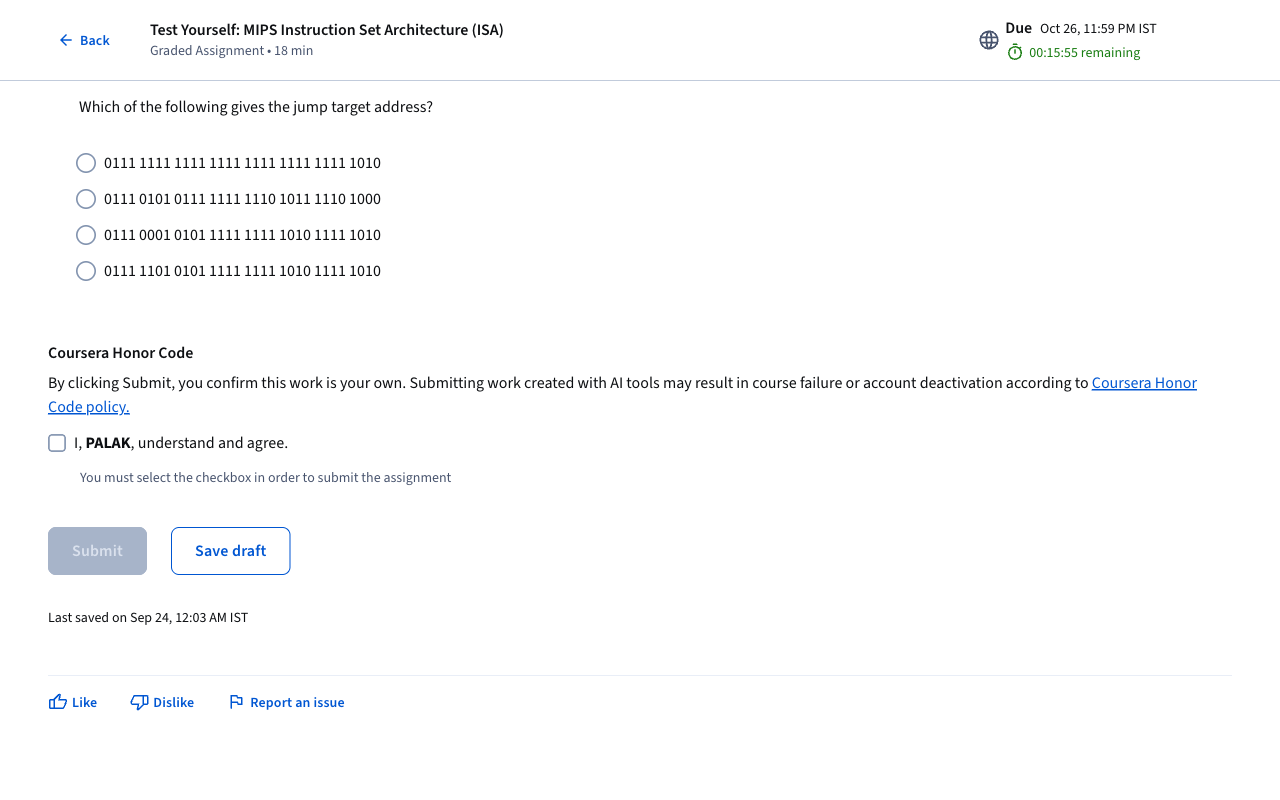
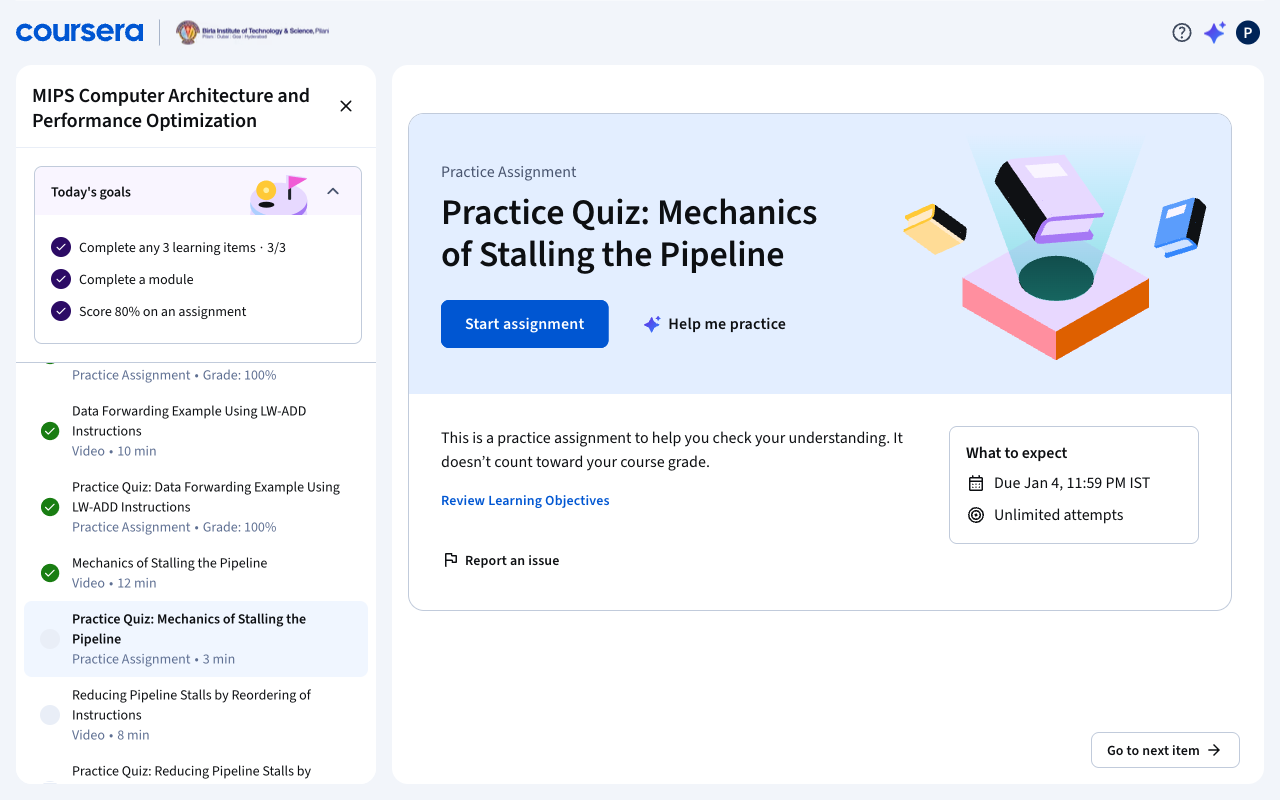
refactor: replace peer assignment submission and upload logic with automatic skipping

diff --git a/tests/test_peer.py b/tests/test_peer.py
@@ -1,52 +1,50 @@
 """Unit tests for peer-graded assignment automation."""
 
-from pathlib import Path
 from unittest.mock import MagicMock, patch
 
 from coursera_automation.config import Settings
 from coursera_automation.items.dispatcher import dispatch_item
 from coursera_automation.items.peer.coordinator import handle_peer
-from coursera_automation.items.peer.upload import upload_peer_file
 
 
-def test_upload_peer_file() -> None:
-    """Verify upload_peer_file clicks add and sets file via file chooser."""
-    page = MagicMock()
-    fc = MagicMock()
-    page.expect_file_chooser.return_value.__enter__.return_value = MagicMock(value=fc)
-    upload_peer_file(page, Path("test.png"))
-    fc.set_files.assert_called_once()
-
-
-
-@patch("coursera_automation.items.peer.coordinator.poll_and_click_next")
-@patch("coursera_automation.items.peer.coordinator.upload_peer_file")
+@patch("coursera_automation.items.peer.coordinator.click_next_item")
 @patch("coursera_automation.items.peer.coordinator.dismiss_dialogs")
-def test_handle_peer_flow(mock_dis: MagicMock, mock_up: MagicMock, mock_poll: MagicMock) -> None:
-    """Verify handle_peer fills title, uploads, checks honor, and submits."""
+def test_handle_peer_skips_and_advances(mock_dis: MagicMock, mock_next: MagicMock) -> None:
+    """Verify handle_peer dismisses dialogs and advances via click_next_item."""
+    mock_next.return_value = True
     page, cfg = MagicMock(), Settings()
-    sub_btn = MagicMock(is_visible=MagicMock(return_value=True), is_enabled=MagicMock(return_value=True))
-    sub_btn.get_attribute.return_value = "false"
-    modal_btn = MagicMock(is_visible=MagicMock(return_value=True))
-    honor_btn = MagicMock(is_visible=MagicMock(return_value=True), is_checked=MagicMock(return_value=False))
-    page.locator.side_effect = lambda s: (
-        MagicMock(first=sub_btn) if "preview" in s else (
-            MagicMock(first=modal_btn) if "dialog-submit-button" in s else (
-                MagicMock(first=honor_btn) if "Honor Code" in s else MagicMock(first=MagicMock(is_visible=MagicMock(return_value=True)))
-            )
-        )
-    )
     handle_peer(page, cfg)
-    mock_up.assert_called_once()
-    sub_btn.click.assert_called_once()
-    modal_btn.click.assert_called_once()
-    mock_poll.assert_called_once_with(page, max_wait_sec=180)
+    mock_dis.assert_called_once_with(page)
+    mock_next.assert_called_once_with(page, cfg)
+
+
+@patch("coursera_automation.items.peer.coordinator.click_next_item")
+@patch("coursera_automation.items.peer.coordinator.dismiss_dialogs")
+def test_handle_peer_scrolls_fallback(mock_dis: MagicMock, mock_next: MagicMock) -> None:
+    """Verify handle_peer scrolls to bottom and retries when first click fails."""
+    mock_next.side_effect = [False, True]
+    page, cfg = MagicMock(), Settings()
+    handle_peer(page, cfg)
+    page.evaluate.assert_called_once_with("() => window.scrollTo(0, document.body.scrollHeight)")
+    assert mock_next.call_count == 2
 
 
 @patch("coursera_automation.items.dispatcher.dismiss_dialogs")
 @patch("coursera_automation.items.dispatcher.handle_peer")
-def test_dispatch_item_peer(mock_peer: MagicMock, mock_dis: MagicMock) -> None:
-    """Verify dispatch_item detects peer URL and delegates to handle_peer."""
+def test_dispatch_item_peer_by_url(mock_peer: MagicMock, mock_dis: MagicMock) -> None:
+    """Verify dispatch_item detects '/peer/' in URL and delegates to handle_peer."""
     page, cfg = MagicMock(url="https://coursera.org/learn/test/peer/123"), Settings()
     dispatch_item(page, cfg)
     mock_peer.assert_called_once_with(page, cfg)
+
+
+@patch("coursera_automation.items.dispatcher.handle_reading")
+@patch("coursera_automation.items.dispatcher.dismiss_dialogs")
+@patch("coursera_automation.items.dispatcher.handle_peer")
+def test_dispatch_item_ignores_peer_dom_without_url(
+    mock_peer: MagicMock, mock_dis: MagicMock, mock_read: MagicMock
+) -> None:
+    """Verify dispatch_item does not trigger handle_peer without '/peer/' in URL."""
+    page, cfg = MagicMock(url="https://coursera.org/learn/test/supplement/123"), Settings()
+    dispatch_item(page, cfg)
+    mock_peer.assert_not_called()

diff --git a/coursera_automation/items/peer/coordinator.py b/coursera_automation/items/peer/coordinator.py
@@ -1,58 +1,23 @@
-"""Peer-graded assignment orchestration: tab selection, title, upload, and submit."""
+"""Peer-graded assignment skipping and progression navigation."""
 
 import logging
-from pathlib import Path
 
 from playwright.sync_api import Page
 
 from coursera_automation.config import Settings
 from coursera_automation.items.navigation.dialogs import dismiss_dialogs
-from coursera_automation.items.peer.upload import upload_peer_file
-from coursera_automation.items.quiz.poll import poll_and_click_next
+from coursera_automation.items.navigation.navigator import click_next_item
 
 logger = logging.getLogger(__name__)
-SUB_TAB = 'button[role="tab"]:has-text("My submission"), button:has-text("My submission")'
-TITLE_INP = 'input#title, input[aria-label="Project Title"], input[placeholder*="title" i]'
-SUBMIT_BTN = 'button[data-testid="preview"], button[data-track-component="submit"], button[aria-label="Submit"]'
-MODAL_BTN = 'button[data-testid="dialog-submit-button"], [role="alertdialog"] button:has-text("Submit")'
-HONOR_SEL = '#agreement-checkbox-base, [aria-label*="Honor Code" i] input, label:has-text("Honor Code"), label:has-text("understand and agree")'
-
-
-def _submit_and_confirm(page: Page, max_wait: int = 120) -> None:
-    """Poll for submit readiness up to max_wait, click submit, and confirm modal."""
-    logger.info("Polling for submit button readiness (up to %ds)...", max_wait)
-    sub = page.locator(SUBMIT_BTN).first
-    for c in range(max(1, max_wait // 5)):
-        if sub.is_visible(timeout=1000) and sub.is_enabled() and sub.get_attribute("aria-disabled") != "true":
-            logger.info("Submit button enabled; submitting project...")
-            break
-        page.wait_for_timeout(5000)
-    if (chk := page.locator(HONOR_SEL).first).is_visible(timeout=2000) and not (
-        chk.is_checked() if chk.get_attribute("type") == "checkbox" else False
-    ):
-        logger.info("Checking Honor Code agreement checkbox...")
-        chk.click(force=True)
-    sub.click(force=True)
-    page.wait_for_timeout(2000)
-    if (modal := page.locator(MODAL_BTN).first).is_visible(timeout=15000):
-        logger.info("Confirming submission in modal...")
-        modal.click()
-        page.wait_for_timeout(2000)
 
 
 def handle_peer(page: Page, cfg: Settings) -> None:
-    """Handle peer-graded assignment lifecycle."""
-    logger.info("Handling peer-graded assignment (10s load wait)...")
+    """Skip peer-graded assignment and advance to the next course item."""
+    logger.info("Peer-graded assignment detected (%s). Skipping peer assignment as requested...", page.url)
     page.wait_for_load_state("domcontentloaded")
-    page.wait_for_timeout(10000)
+    page.wait_for_timeout(3000)
     dismiss_dialogs(page)
-    if (tab := page.locator(SUB_TAB).first).is_visible(timeout=5000):
-        tab.click()
+    if not click_next_item(page, cfg):
+        page.evaluate("() => window.scrollTo(0, document.body.scrollHeight)")
         page.wait_for_timeout(2000)
-    if (inp := page.locator(TITLE_INP).first).is_visible(timeout=5000):
-        inp.fill("test")
-        page.wait_for_timeout(1000)
-    upload_peer_file(page, Path("test.png").resolve())
-    _submit_and_confirm(page, max_wait=120)
-    poll_and_click_next(page, max_wait_sec=cfg.post_quiz_wait_sec)
-
+        click_next_item(page, cfg)

diff --git a/coursera_automation/items/dispatcher.py b/coursera_automation/items/dispatcher.py
@@ -22,20 +22,18 @@ def dispatch_item(page: Page, cfg: Settings) -> None:
     dismiss_dialogs(page)
 
     url = page.url
-    if any(k in url for k in ("/peer/", "/peer-assignment/")):
+    if "/peer/" in url:
         handle_peer(page, cfg)
     elif any(k in url for k in ("/discussionPrompt/", "/discussion/", "/discussions/")):
         handle_discussion(page, cfg)
     elif any(k in url for k in ("/lecture/", "/video/")):
         handle_video(page, cfg)
-    elif any(k in url for k in ("/lab/", "/ungradedLab/", "/ungradedLabWidget/", "/programming/")) :
+    elif any(k in url for k in ("/lab/", "/ungradedLab/", "/ungradedLabWidget/", "/programming/")):
         handle_lab(page, cfg)
     elif any(k in url for k in ("/exam/", "/quiz/", "/assignment")):
         handle_quiz(page, cfg)
     elif "/supplement" in url:
         handle_reading(page, cfg)
-    elif page.locator('button[role="tab"]:has-text("My submission"), [data-track-page="peer_review_my_project"]').first.is_visible(timeout=5000):
-        handle_peer(page, cfg)
     elif page.locator('button:has-text("Reply")').first.is_visible(timeout=5000):
         handle_discussion(page, cfg)
     elif page.locator("video, .rc-VideoPlayer, [data-testid*='video']").first.is_visible(timeout=3000):

diff --git a/docs/ARCHITECTURE.md b/docs/ARCHITECTURE.md
@@ -60,8 +60,7 @@ sequenceDiagram
   - `dialogue.py`: Roleplay / dialogue start, text chat selection, end, modal confirmation, and 15s post-dialogue finalization buffer.
   - `discussion.py`: Discussion response input with 15-second post-reply stabilization buffer.
 - **Peer Assignment Subpackage (`items/peer/`)**:
-  - `coordinator.py`: Peer submission coordination, title, upload wait, Honor Code, submit, and next item progression.
-  - `upload.py`: File attachment via Uppy Dashboard file chooser and direct file input fallback.
+  - `coordinator.py`: Peer-graded assignment skipping and progression navigation (identified strictly by `/peer/` in URL).
 - **Navigation Subpackage (`items/navigation/`)**:
   - `resume.py`: Resume and get started course navigation with vertical scrolling and button detection.
   - `navigator.py`: Next item progression navigation checking TopBannerCTAButton when back button is visible, with direct href fallback, and graceful termination on Final Exams.
